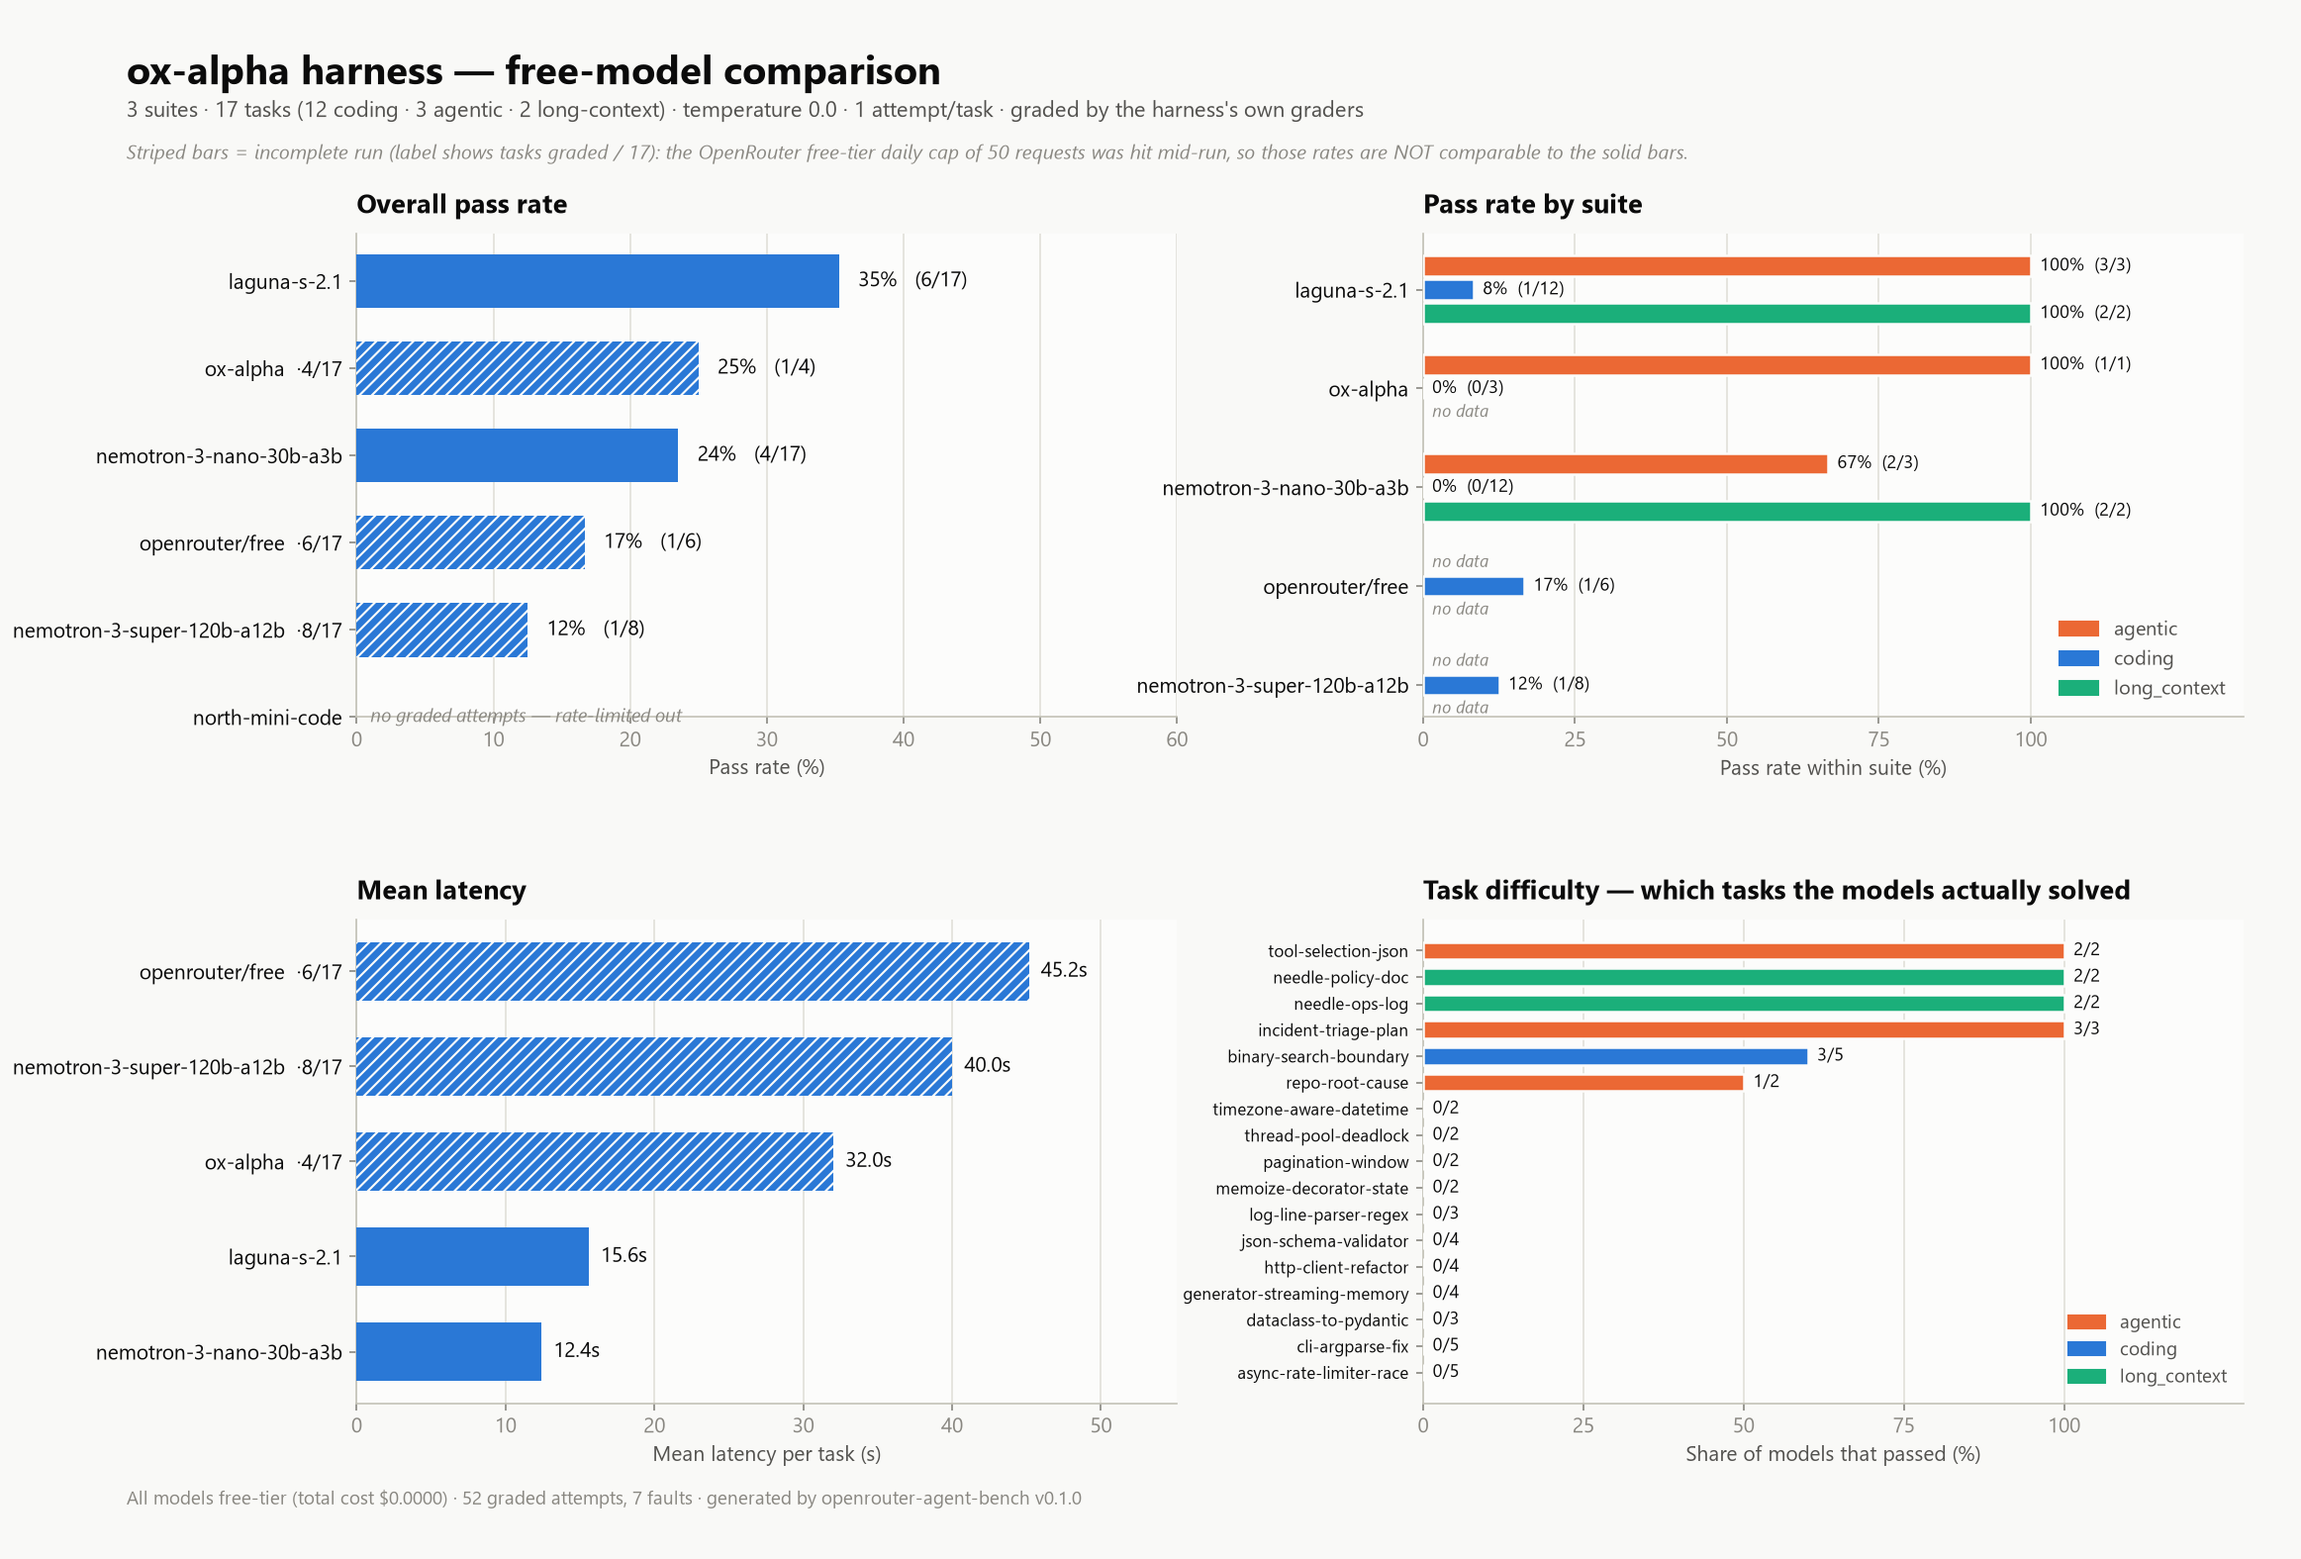
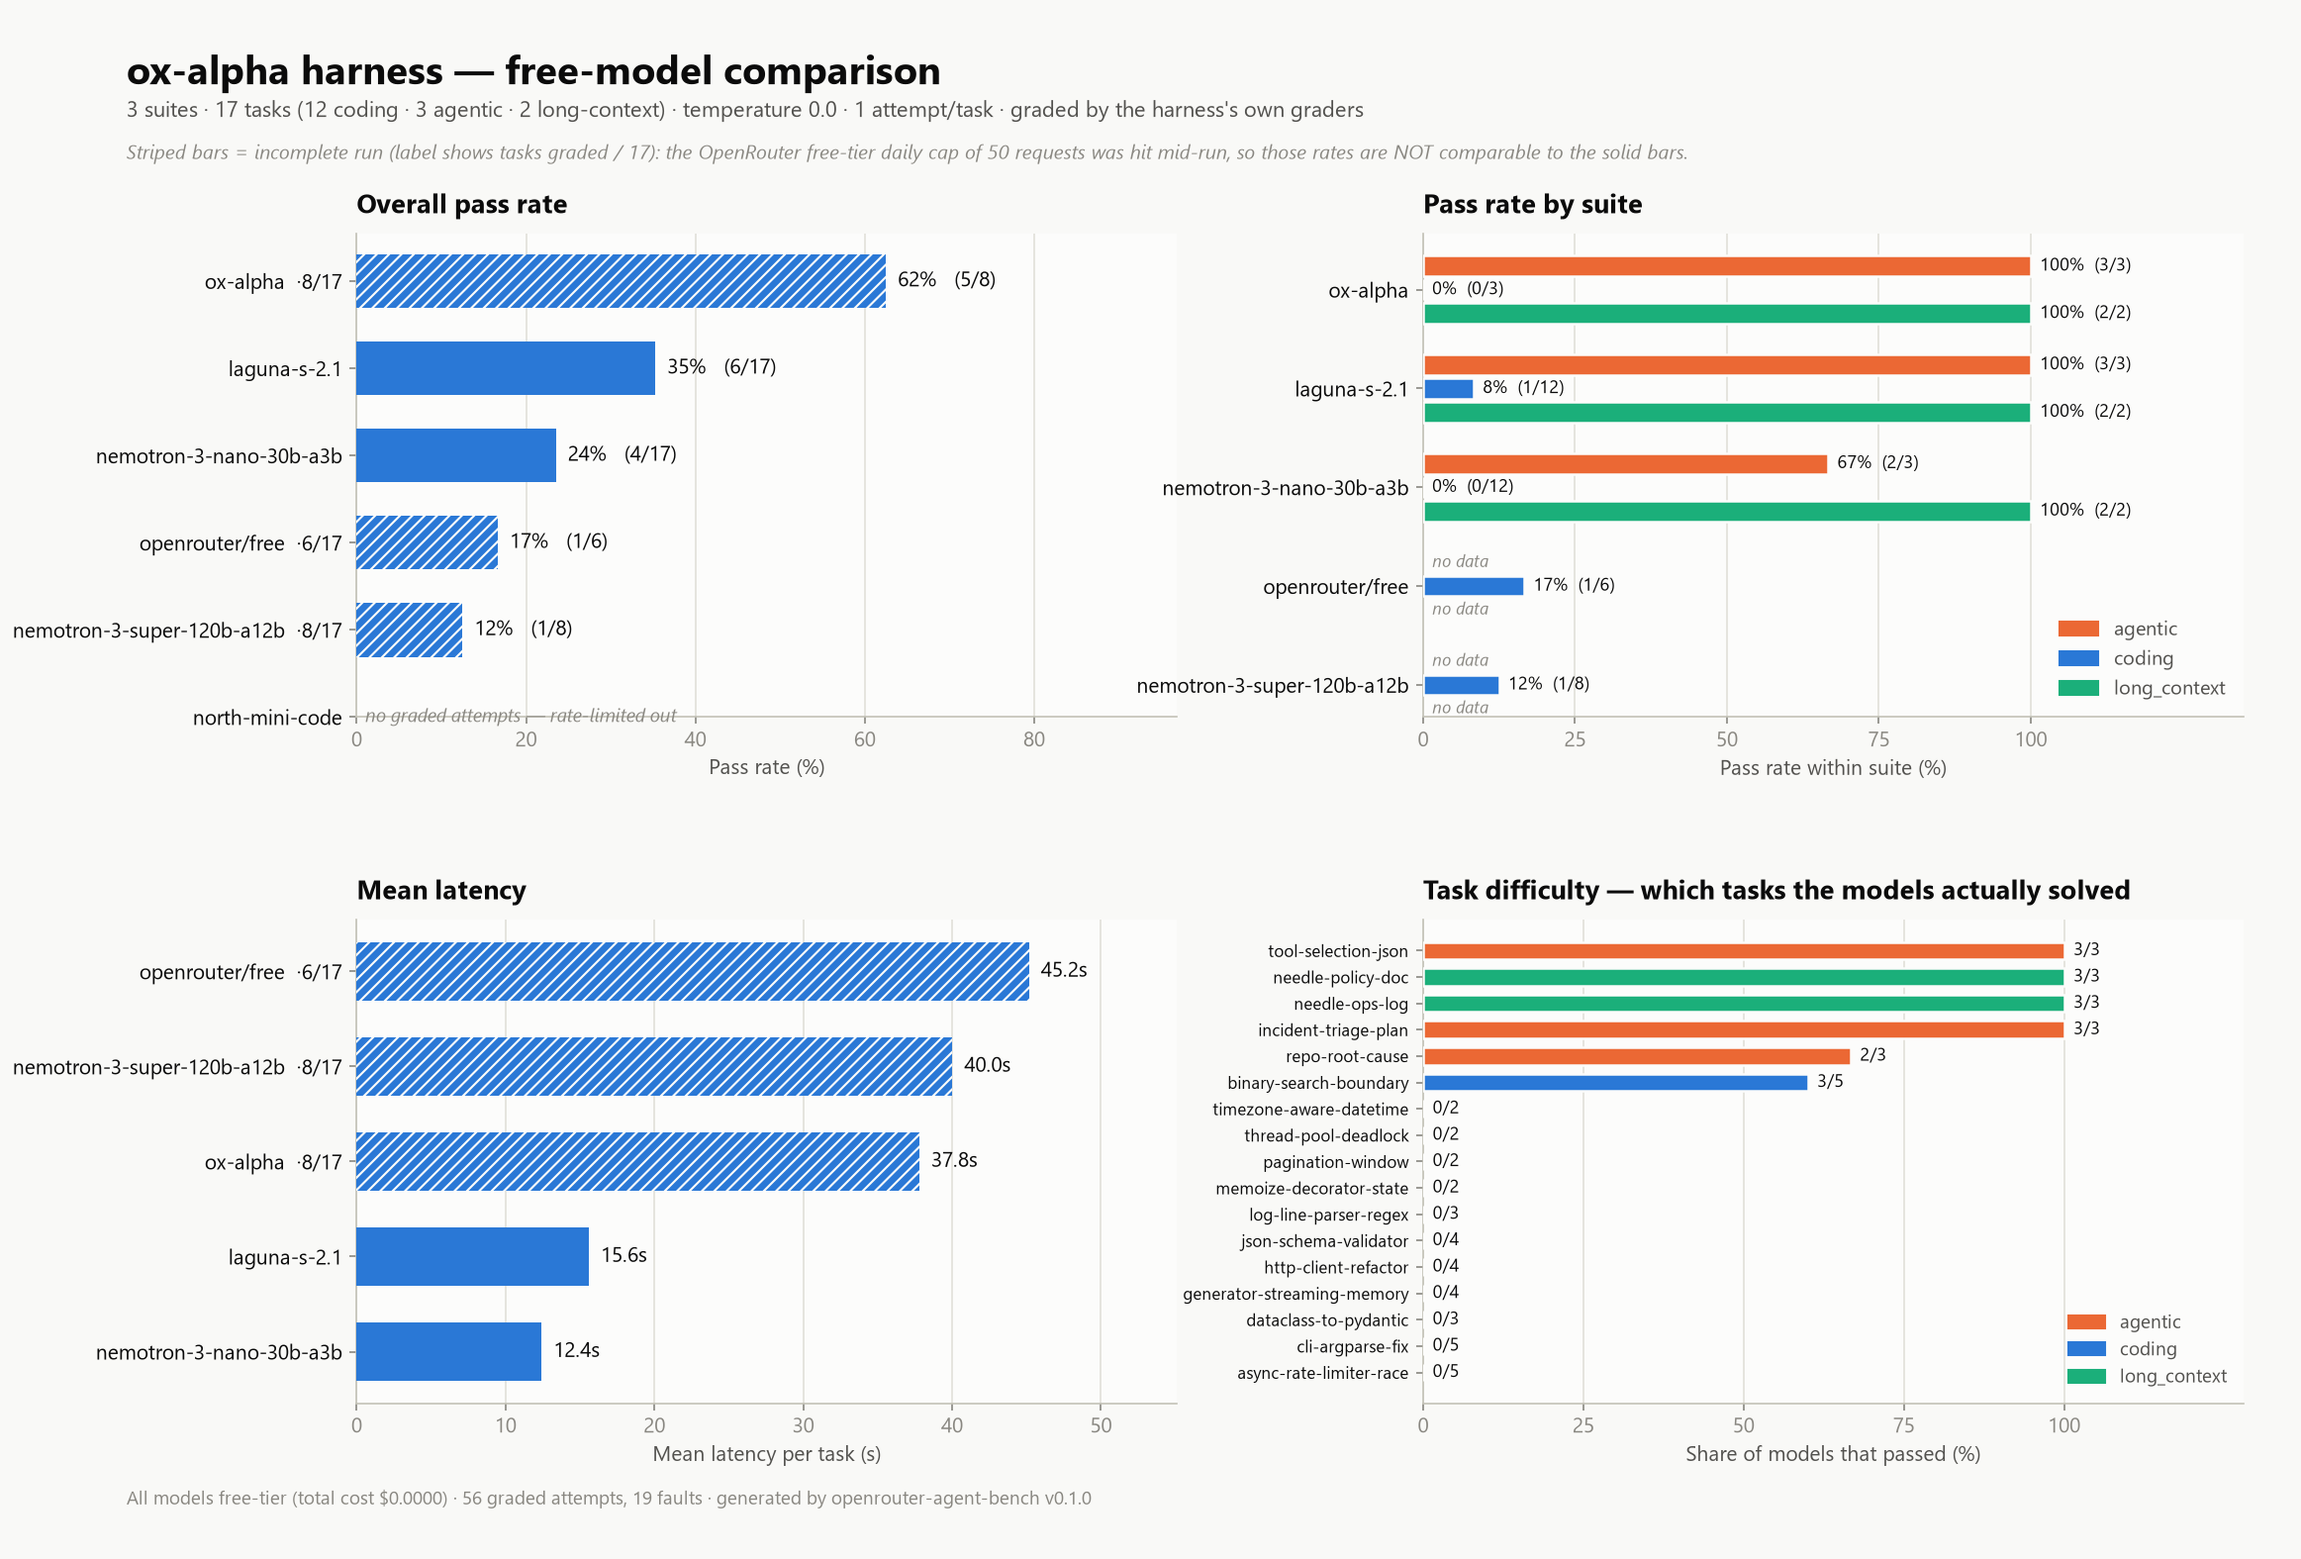
Correct stale benchmark numbers in README and reports
The per-model SQLite databases kept recording attempts after the first
aggregate snapshot was taken, so the committed results understated
several models. Regenerated results.json and the comparison chart from
the final database state.

Most significant change: stealth/ox-alpha is 62% (5/8), not 25% (1/4).
Totals are now 56 graded attempts and 19 faults, up from 52 and 7.

Reframed the results section as illustrative harness output rather than
a ranking, and documented the caveats that matter for reading it:

- ox-alpha's 62% is a coverage artifact — 8 of 17 tasks, weighted toward
  the two suites it does well on, with 9 coding tasks never attempted
- openrouter/free is a router, so its score is not attributable to any
  single model
- a zero on the coding suite conflates incorrect logic with a
  submission-format mismatch the grader cannot currently separate
- one attempt per task gives a CI of roughly +/-20 points

Also widened the pass-rate axis so the highest bar and its label no
longer overflow into the adjacent panel.

diff --git a/README.md b/README.md
@@ -78,35 +78,46 @@ tasks are graded by executing the hidden pytest files inside the sandbox.
 
 ## Example results
 
-A run of all three suites against the live free-tier models. Aggregates are in
-[`reports/results.json`](reports/results.json).
+A run of all three suites against the live free-tier models, produced entirely by
+the harness. Full aggregates are in [`reports/results.json`](reports/results.json).
 
 ![Model comparison](reports/model-comparison.png)
 
-| Model | Pass rate | Coverage |
-| --- | --- | --- |
-| `poolside/laguna-s-2.1:free` | **35%** (6/17) | complete |
-| `stealth/ox-alpha` | 25% (1/4) | partial |
-| `nvidia/nemotron-3-nano-30b-a3b:free` | 24% (4/17) | complete |
-| `openrouter/free` | 17% (1/6) | partial |
-| `nvidia/nemotron-3-super-120b-a12b:free` | 12% (1/8) | partial |
-| `cohere/north-mini-code:free` | — | no graded attempts |
+| Model | Overall | `coding` | `agentic` | `long_context` | Coverage |
+| --- | --- | --- | --- | --- | --- |
+| `poolside/laguna-s-2.1:free` | 35% (6/17) | 8% (1/12) | 100% (3/3) | 100% (2/2) | complete |
+| `nvidia/nemotron-3-nano-30b-a3b:free` | 24% (4/17) | 0% (0/12) | 67% (2/3) | 100% (2/2) | complete |
+| `stealth/ox-alpha` | 62% (5/8) | 0% (0/3) | 100% (3/3) | 100% (2/2) | partial — 8/17 |
+| `nvidia/nemotron-3-super-120b-a12b:free` | 12% (1/8) | 12% (1/8) | — | — | partial — 8/17 |
+| `openrouter/free` | 17% (1/6) | 17% (1/6) | — | — | partial — 6/17 |
+| `cohere/north-mini-code:free` | — | — | — | — | rate-limited out |
 
-Conditions: temperature 0.0, one attempt per task, $0.00 total cost.
+Conditions: temperature 0.0, one attempt per task, 56 graded attempts and 19
+faults, $0.00 total cost.
 
-Two caveats on these numbers:
+Read these as illustrative harness output, not as a model ranking:
 
-- **The run is incomplete.** The OpenRouter free tier caps you at 50 requests per
-  day, and that cap was reached mid-run. Only two models finished all 17 tasks;
-  the striped bars in the chart mark the partial ones and are labelled with the
-  task count they actually cover, since a rate over 4 tasks is not comparable to
-  one over 17. Three further catalogued models never ran at all — two returned
-  upstream 429s and `thinkingmachines/inkling-small:free` returns 403
-  (`only available on agentic harnesses`).
-- **The low `coding` scores are genuine model failures, not grader faults.** The
-  suites split sharply: 67–100% on `agentic` and `long_context` against 0–8% on
-  `coding`. Spot-checking the stored failures shows real assertion failures and
-  submitted code that fails to import, not extraction or sandbox problems.
+- **Only two models completed all 17 tasks.** The OpenRouter free tier caps you at
+  50 requests per day and that cap was reached mid-run. The striped bars in the
+  chart mark the partial runs. `stealth/ox-alpha` scores highest at 62%, but it
+  only got through 8 tasks and 5 of those were the `agentic` and `long_context`
+  suites it does well on — it never attempted 9 of the 12 `coding` tasks. That
+  number is a coverage artifact, not a win.
+- **`openrouter/free` is a router, not a model.** Its score can't be attributed to
+  any particular model, since the request may be served by a different one each
+  time. It is listed here because the harness supports the endpoint.
+- **A zero on `coding` has two possible causes.** The `unit_tests` grader writes
+  the submitted block over the target file and runs the hidden tests, so a model
+  that returns only a fixed fragment rather than the whole file fails collection
+  and scores zero. The harness does not currently separate that from genuinely
+  incorrect logic.
+- **One attempt per task is not enough to rank anything.** Over 17 binary trials
+  the confidence interval is roughly ±20 points. Raise `--repeats` for pass@k if
+  you want to compare models rather than exercise the harness.
+
+Three further catalogued models never ran: two returned upstream 429s and
+`thinkingmachines/inkling-small:free` returns 403 (`only available on agentic
+harnesses`).
 
 ## Web dashboard
 
